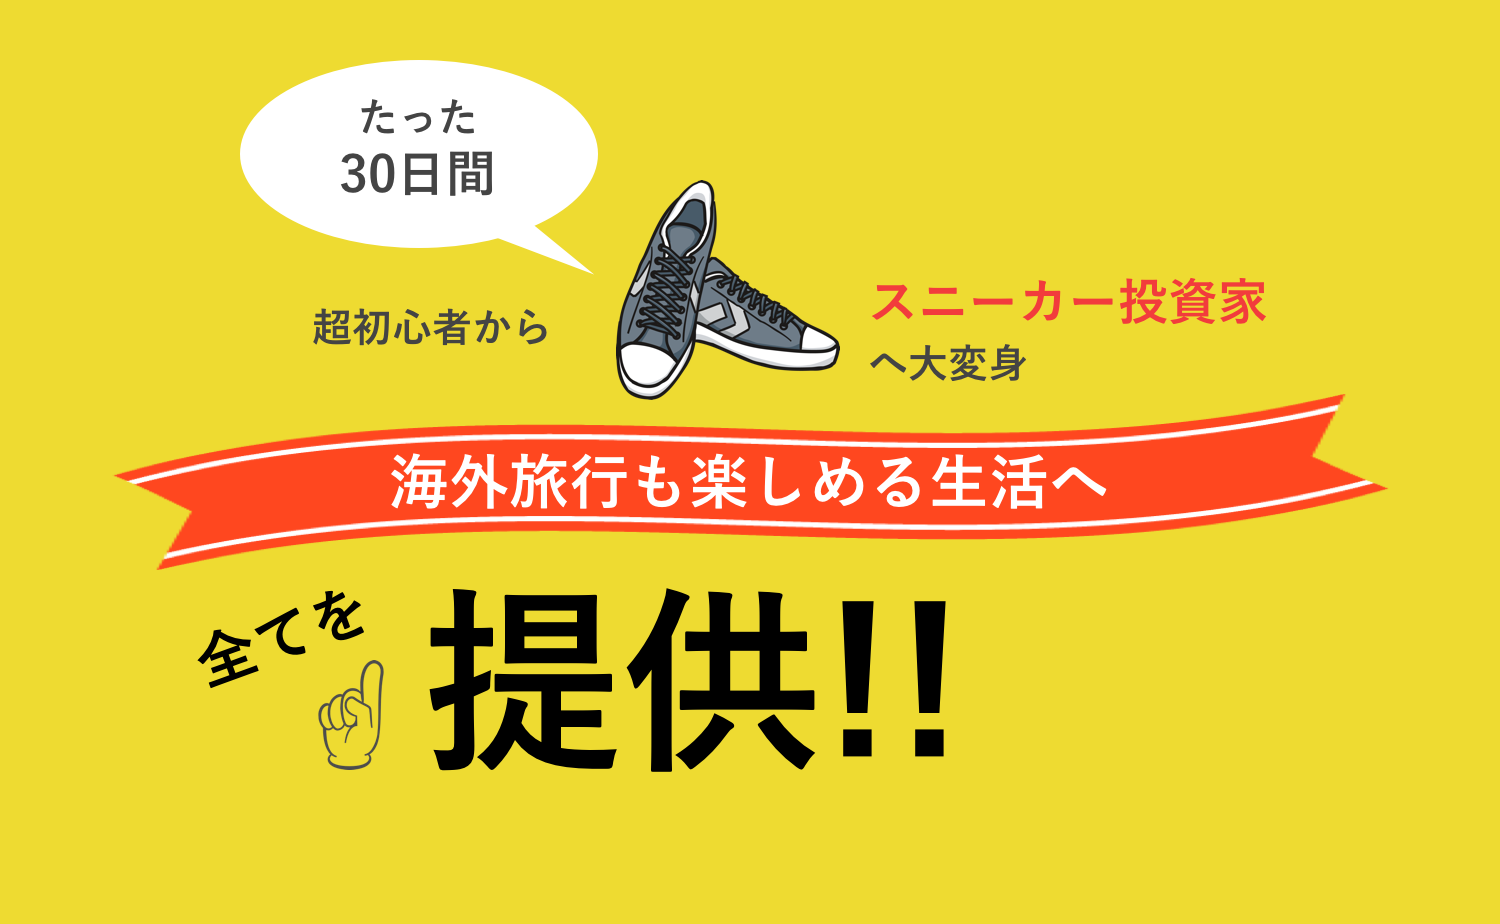
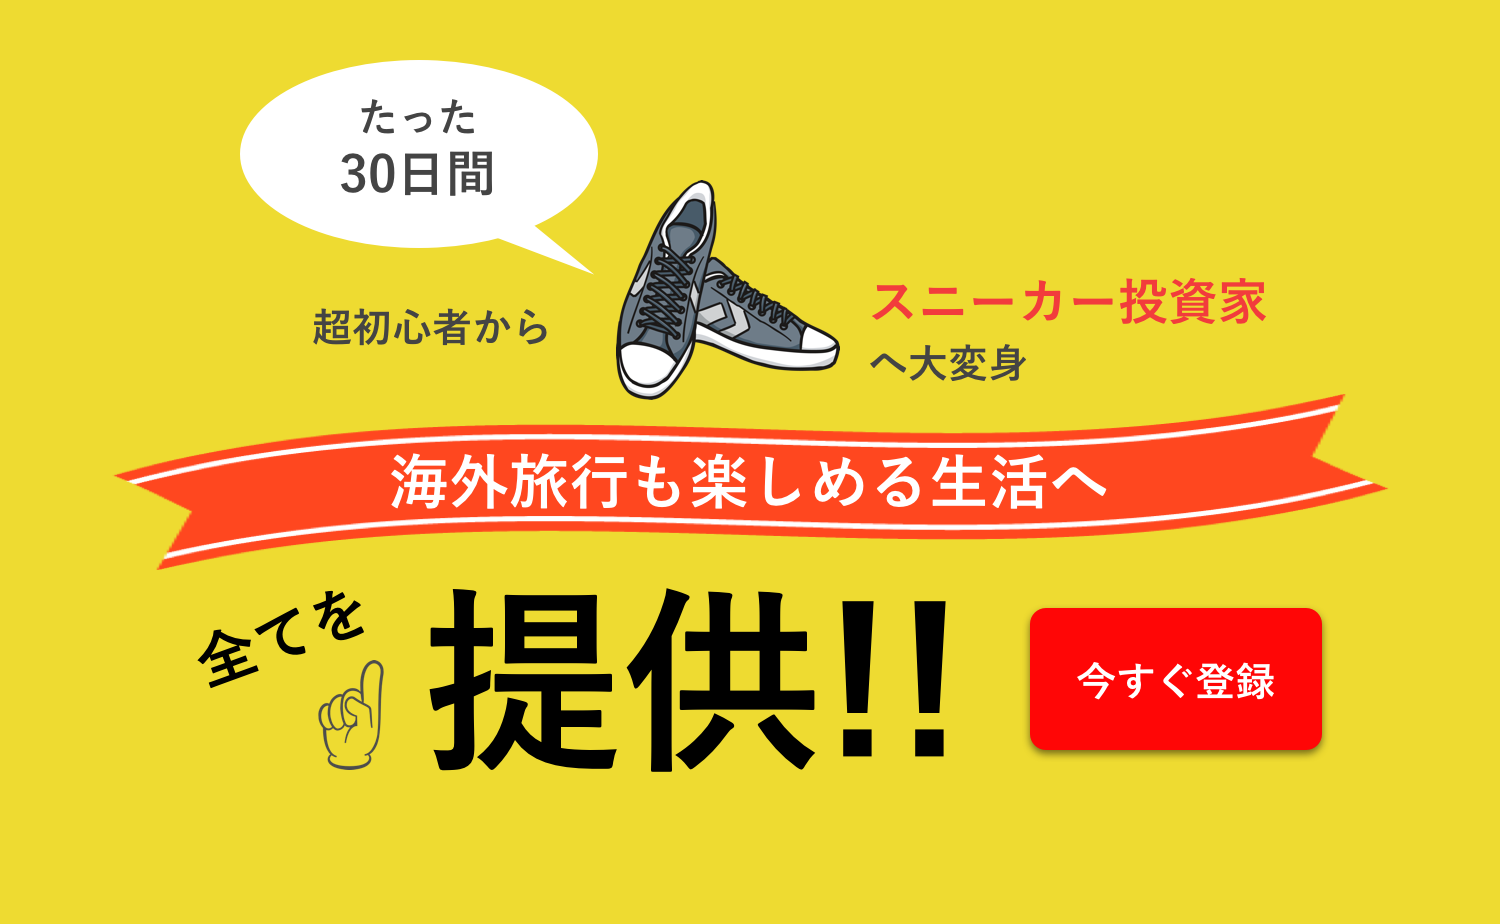
ch

Changed region(s): [[0.6747, 0.6364, 0.8893, 0.8182]]

diff --git a/index.html b/index.html
@@ -15,20 +15,38 @@
 
 
 <body>
-    
-    <div class="content" style="margin:0 auto;">
-    	
-        <img src="./LP1.png" style="width:100%">
-        <img src="./LP2.png" style="width:100%">
-        <img src="./LP_add.png" style="width:100%">
-        <img src="./LP3.png" style="width:100%">
-        <img src="./LP4.png" style="width:100%">
-        <img src="./LP5.png" style="width:100%">
-        <img src="./LP6.png" style="width:100%">
-        <img src="./LP7.png" style="width:100%">
-        <img src="./LP8.png" style="width:100%">
-        <img src="./LP9.png" style="width:100%">
-    
+   
+    	<div class="contents1 wi">
+    		<img src="./LP1.png" style="width:100%">
+    		<!--<a href="#" class="btn-square-shadow">BUTTON</a>-->
+    	</div>
+    	<div class="contents2 wi">
+    		<img src="./LP2.png" style="width:100%">
+    	</div>
+    	<div class="contents3 wi">
+    		<img src="./LP_add.png" style="width:100%">
+    	</div>
+    	<div class="contents4 wi">
+    		<img src="./LP3.png" style="width:100%">
+    	</div>
+    	<div class="contents5 wi">
+    		<img src="./LP4.png" style="width:100%">
+    	</div>
+    	<div class="contents6 wi">
+    		<img src="./LP5.png" style="width:100%">
+    	</div>
+    	<div class="contents7 wi">
+    		<img src="./LP6.png" style="width:100%">
+    	</div>
+    	<div class="contents8 wi">
+    		<img src="./LP7.png" style="width:100%">
+    	</div>
+    	<div class="contents9 wi">
+    		<img src="./LP8.png" style="width:100%">
+    	</div>
+    	<div class="contents9 wi">
+    		<img src="./LP9.png" style="width:100%">
+    	</div>
 	    <div class="form-group">
 			<form method="post" action="https://canyon-ex.jp/fy">
 				<input type="hidden" name="Publisher_Id" value="2374" />

diff --git a/style.css b/style.css
@@ -45,6 +45,10 @@ table {
 dl{
     margin-bottom: 0rem!important;
 }
+.wi{
+    width: 50%;
+    margin: 0 auto;
+}
 .content{
     width: 100%;
 }
@@ -99,6 +103,28 @@ th  { background: #f4f4f4; }
     text-align: center
     }
   .company tr:first-child th { border-top: 1px solid #ddd; }
+}
+
+.btn-square-shadow {
+    width: 180px;
+    text-align: center;
+    display: inline-block;
+    padding: 0.5em 1em;
+    text-decoration: none;
+    background: #668ad8;
+    color: #FFF;
+    border-bottom: solid 4px #627295;
+    border-radius: 3px;
+    position: relative;
+    bottom: 130px;
+    left: 70%;
+}
+.btn-square-shadow:active {
+  /*ボタンを押したとき*/
+  -webkit-transform: translateY(4px);
+  transform: translateY(4px);/*下に動く*/
+  box-shadow: 0px 0px 1px rgba(0, 0, 0, 0.2);/*影を小さく*/
+  border-bottom: none;
 }
 
 /*タブレット以上*/
